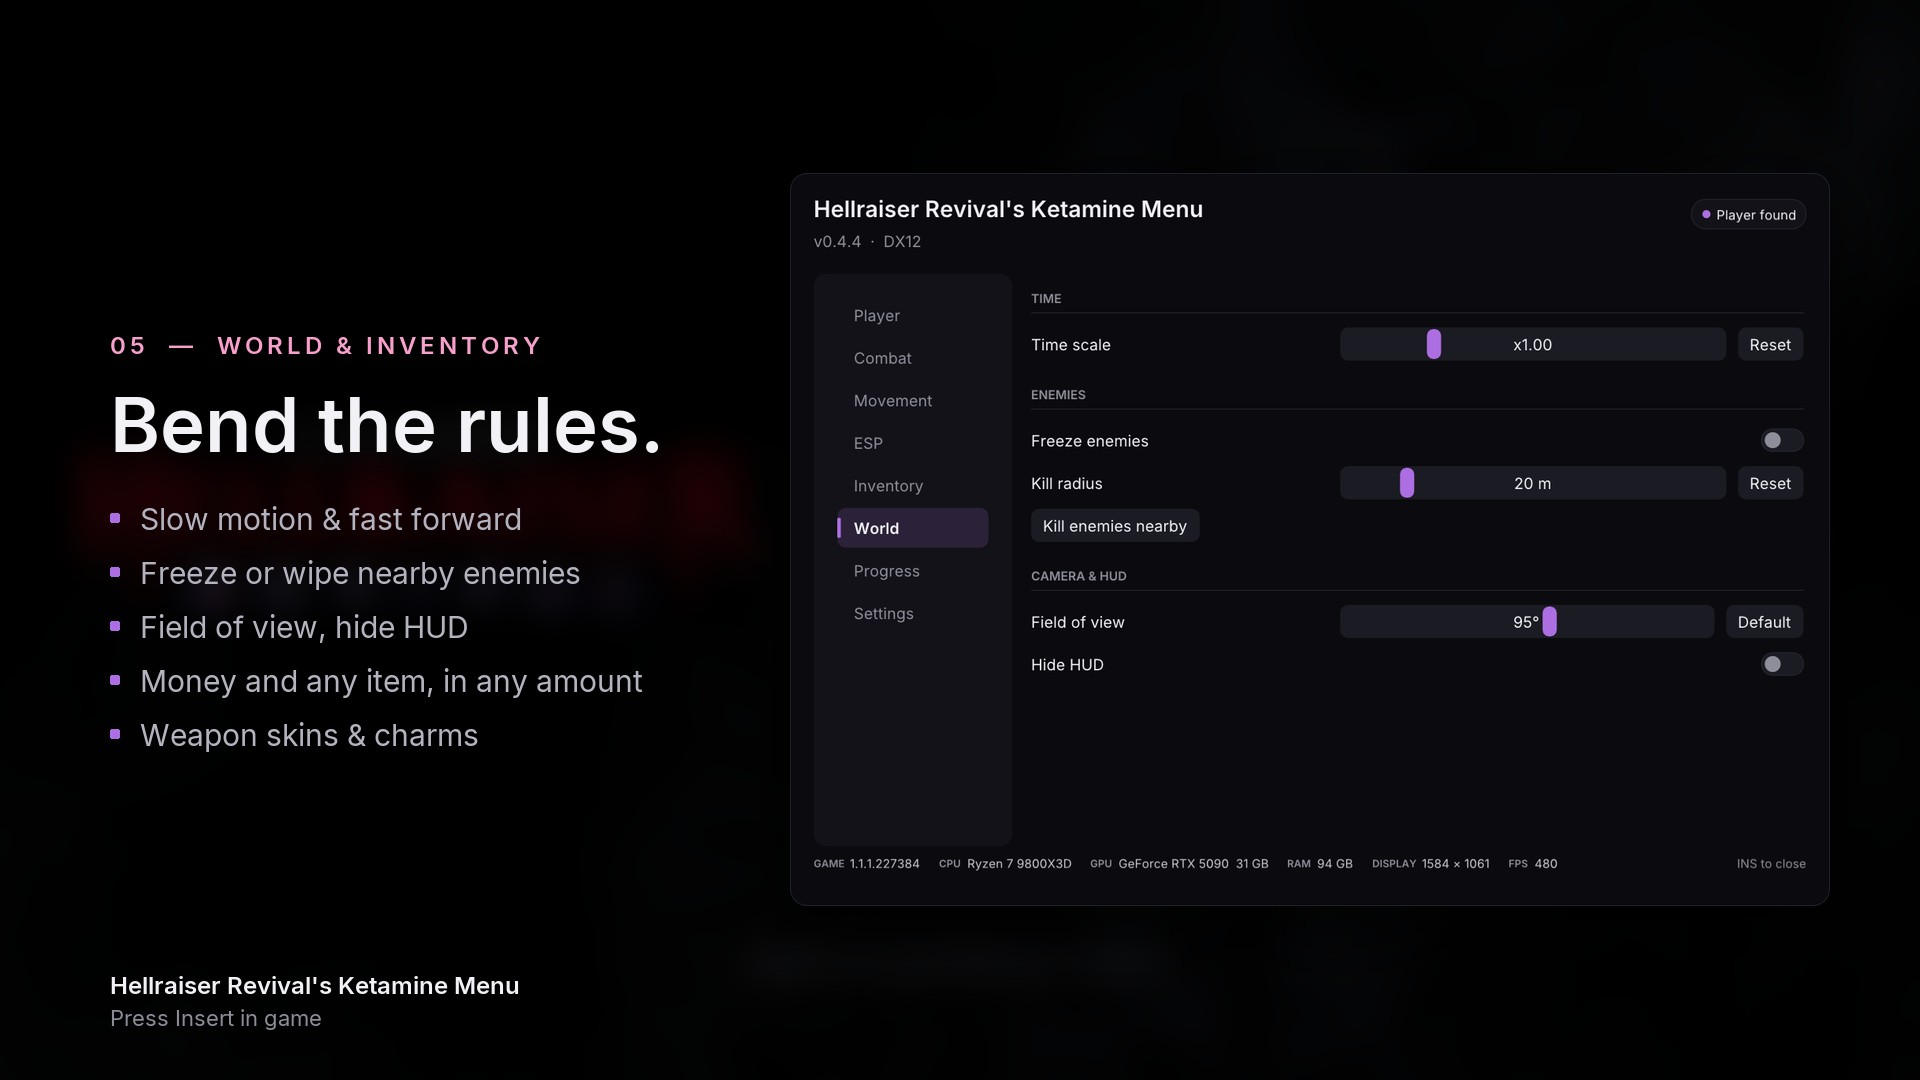
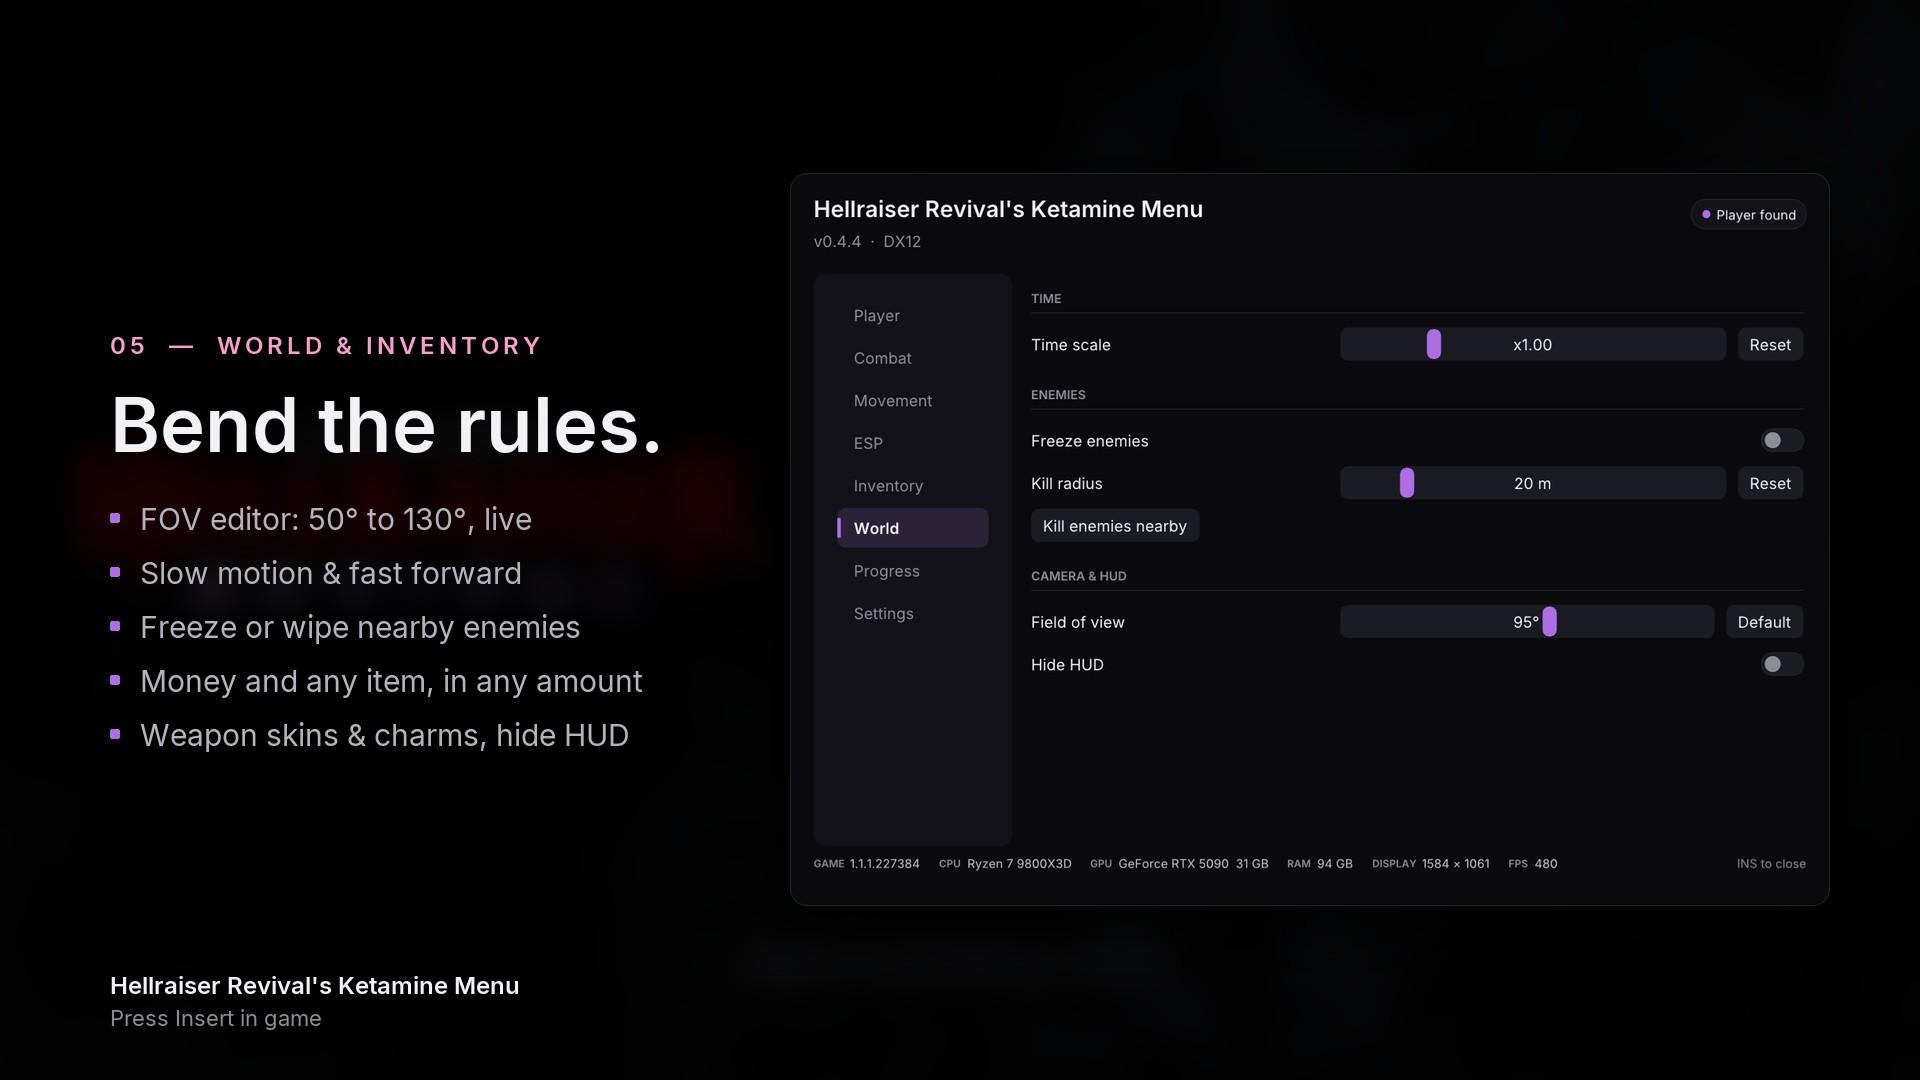
Feature the FOV editor on the Nexus page, cards and README

Changed region(s): [[0.0625, 0.5194, 0.3125, 0.6111], [0.0625, 0.4583, 0.2812, 0.4889], [0.25, 0.6722, 0.3438, 0.7028]]

diff --git a/README.md b/README.md
@@ -104,7 +104,7 @@ out with the reason in a tooltip instead of crashing.
 **World**
 - Time scale (slow motion / fast forward)
 - Freeze enemies, kill enemies nearby
-- Field of view, hide HUD
+- FOV editor (50° to 130°, live), hide HUD
 
 **Progress**
 - See active and completed objectives, complete one, change the shop level
